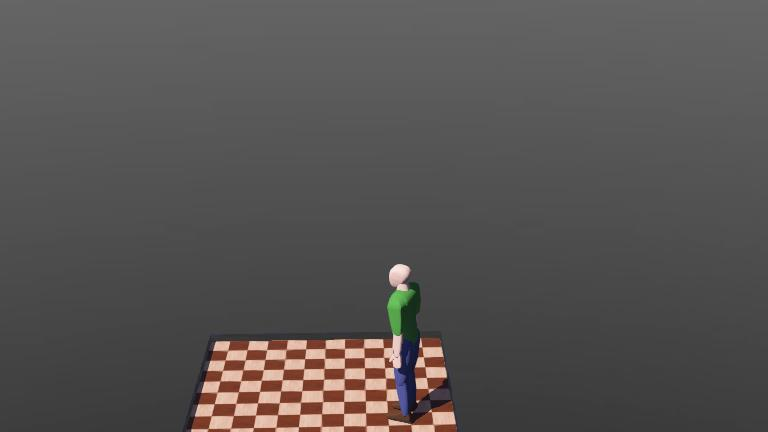
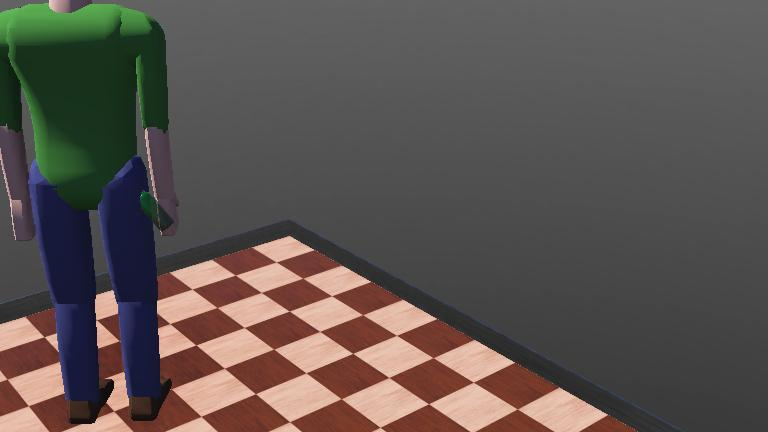
Parcial 2: Agrega BeerBottle a la mano del humanoide - Cristian Miranda

diff --git a/Examples/ejemplo1/README.md b/Examples/ejemplo1/README.md
@@ -1,0 +1,110 @@
+# Parcial 2 — Simulación de Sistemas Robóticos
+
+Estudiante: Cristian David Miranda Martínez  
+Materia: Simulación de Sistemas Robóticos  
+Institución Universitaria del Caribe — UNICARIBE  
+Fecha: 06 de Mayo 2026
+
+
+# Descripción
+
+Este parcial toma como base el ejemplo trabajado en clase y le agrega una botella de cerveza (`BeerBottle`) la cual debe estar agarrada por el humanoide con su mano derecha. La botella debe moverse juntamente con el humanoide es decir si se mueve a la derecha, izquierda, adelante o hacia atras esta se debe mover con el, gracias al uso de matrices homogéneas para el cambio de sistema de referencia.
+
+
+# Cambios realizados
+
+# 1. Agregado del nodo BeerBottle a la escena (`t1.wbt`)
+
+Para agregar la botella dentro de la simulacion. En el panel izquierdo del árbol de la escena hice clic en el botón de añadir nodo, busqué `BeerBottle` dentro de la categoría `objects/drinks` y lo inserté. Una vez en la escena le asigné el nombre `DEF botella` para poder referenciarlo desde el controlador.
+
+Luego lo ubiqué manualmente cerca de la mano derecha del humanoide usando las flechas de movimiento que Webots muestra al seleccionar el objeto en la vista 3D, ajustando su posición y rotación hasta que quedó en una posición aproximada a la mano. El controlador se encarga de mantenerlo exactamente en esa posición durante la simulación.
+
+**Por qué se necesita el DEF:** sin ese identificador, el controlador no puede encontrar el nodo con `getFromDef()` y no podría manipularlo en tiempo de ejecución.
+
+---
+
+### 2. Función `obtener_T_humanoide` — Matriz homogénea 4×4 (`my_controller.py`)
+
+Para que la botella siga correctamente la mano sin importar hacia dónde mire el humanoide, construí una matriz de transformación homogénea que representa tanto la posición como la orientación del humanoide en el mundo:
+
+```
+        | cos θ  -sin θ  0  Px |
+T =     | sin θ   cos θ  0  Py |
+        |   0      0     1  Pz |
+        |   0      0     0   1 |
+```
+
+Donde `Px`, `Py`, `Pz` son las coordenadas mundiales del humanoide y `θ` es su ángulo de rotación sobre el eje Z.
+
+**Por qué se hace así:** esta matriz permite expresar cualquier punto del sistema local del humanoide en coordenadas del mundo con una sola multiplicación. Si solo usara la traslación, la botella quedaría en la posición correcta cuando el humanoide mira hacia un lado pero se descolocaría al rotar. La matriz homogénea resuelve eso al combinar rotación y traslación en una sola operación.
+
+---
+
+### 3. Función `calcular_posicion_mano` — Posición de la mano en el mundo (`my_controller.py`)
+
+Con la matriz homogénea construida, calcular la posición mundial de la mano es simplemente multiplicarla por el vector offset que representa dónde está la mano en el sistema local del humanoide:
+
+```
+P_mano_mundial = T × [ox, oy, oz, 1]^T
+```
+
+El offset que usé fue:
+
+```python
+OFFSET_MANO_DERECHA = Matrix([-0.10, -0.22, -0.45])
+```
+
+Estos valores los fui ajustando observando la posición de la botella en la vista 3D de Webots hasta que coincidió con la mano derecha del humanoide.
+
+**Por qué funciona independientemente del movimiento:** al leer la posición y ángulo actuales del humanoide en cada paso de tiempo y reconstruir la matriz T, el cálculo siempre refleja el estado real del humanoide en ese instante. Da igual si giró 90 grados o si se movió al otro lado del arena, la botella siempre va a estar en la misma posición relativa a la mano.
+
+---
+
+### 4. Rotación de la botella para simular el agarre (`my_controller.py`)
+
+La botella por defecto aparecia parada verticalmente. Para que se vea natural en la mano del humanoide la roté aplicando en cada paso:
+
+```python
+nodo_botella.getField("rotation").setSFRotation([-0.5, 0.2, 0, math.pi / 2])
+```
+
+Esto la inclina aproximadamente 90° con una ligera corrección en el eje Y, que fue el ángulo que mejor simuló visualmente la forma en que una persona sostiene una botella.
+
+---
+
+### 5. Estabilización con `resetPhysics()` (`my_controller.py`)
+
+La `BeerBottle` tiene física activa por defecto, lo que hace que la gravedad la jale hacia abajo en cada paso de simulación. Para evitarlo, después de actualizar su posición y rotación en cada iteración del bucle llamo:
+
+```python
+nodo_botella.resetPhysics()
+```
+
+Esto reinicia la velocidad y aceleración acumuladas por el motor físico, de modo que la gravedad nunca llega a desplazar la botella de forma visible entre un paso y el siguiente.
+
+---
+
+### 6. Conservación de la altura del humanoide (`my_controller.py`)
+
+Al mover el humanoide con el teclado usando `setSFVec3f`, el motor físico intentaba aplicarle gravedad y comenzaba a descender lentamente. Para evitarlo guardé su altura Z original al inicio del programa:
+
+```python
+Z_FIJO = nodo_peaton.getField("translation").getSFVec3f()[2]
+```
+
+Y en cada traslación fuerzo ese valor de Z, de modo que el humanoide siempre se mantiene a la misma altura sin importar cuántos movimientos se realicen.
+
+---
+
+## Controles
+
+| Tecla | Acción |
+|---|---|
+| ↑ | Mover adelante |
+| ↓ | Mover atrás |
+| ← | Mover izquierda |
+| → | Mover derecha |
+| Q | Rotar antihorario |
+| E | Rotar horario |
+
+La botella se actualiza automáticamente en cada paso y siempre permanece en la mano derecha del humanoide.